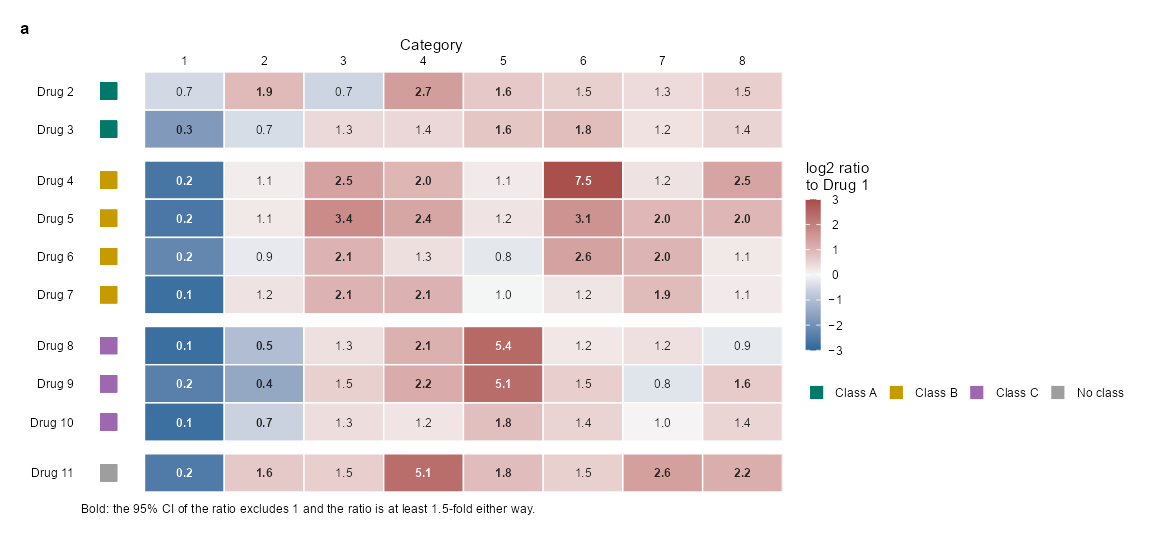
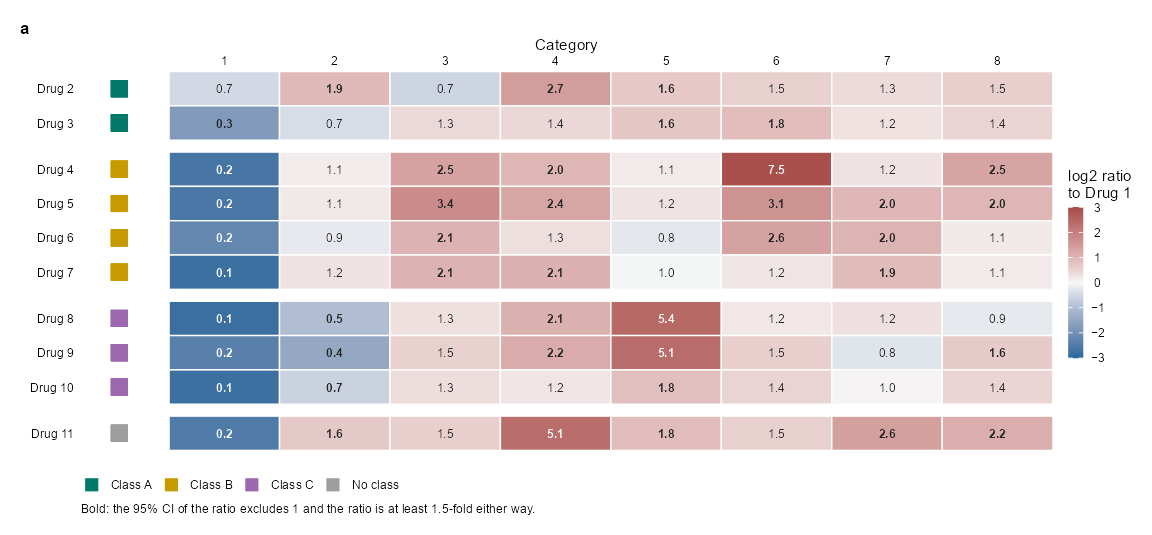
Put the legend of the classes below the heat map of Figure 4, and fix the colors of the routes
Each guide of the fourth figure of the reporting study has its own position: the color bar stays at the right and the legend of the classes goes below the heat map, at the left and in line with the caption. The routes of the second figure were a rose ramp of which one step was only 6.6 apart from the gold of a class for readers with tritanopia; journal_audit() reported it and the checks of the PDF files do not see it. The routes are now an oat, a sand and a khaki, at least 10 apart from each other and from the colors of the classes, and both articles pass the audit again. Version 1.8.6.

diff --git a/articles/reporting-study.md b/articles/reporting-study.md
@@ -71,9 +71,9 @@ Every figure takes its colors from the contract:
   than readers with color-vision deficiency can keep apart (see Section
   7), so they are the labels of the columns and are named in the text of
   the figures. Everything else is neutral: the three routes of Figure 2
-  are a blush, a dusty rose and a rosy taupe, and the ordered quantities
-  (the bins of time, the median days, the boxes of the flow chart) are
-  steps of one cool slate.
+  are an oat, a sand and a khaki, and the ordered quantities (the bins
+  of time, the median days, the boxes of the flow chart) are steps of
+  one cool slate.
 
 A group keeps its color across the figures, and no figure gives one
 color two meanings.
@@ -275,7 +275,7 @@ rows, so that a drug is read across the three.
 
 ``` r
 set.seed(21)
-route_colors <- setNames(hcl(20, c(10, 16, 30), c(93, 76, 62)), c("Route 1", "Route 2", "Route 3"))     # blush, dusty rose, rosy taupe
+route_colors <- setNames(hcl(60, c(8, 24, 26), c(93, 78, 64)), c("Route 1", "Route 2", "Route 3"))     # oat, sand, khaki
 bins <- c("\u226430 d", "31\u2013180 d", ">180 d")
 axis_drugs <- scale_y_discrete(limits = rev(drugs))
 
@@ -530,17 +530,17 @@ contrast <- ggplot(rel, aes(event, drug)) +
   scale_y_discrete(limits = rev) + scale_x_discrete(position = "top", labels = category_number, expand = expansion(add = c(1.3, 0))) +
   scale_fill_gradientn(colours = direction, limits = c(-3, 3), oob = scales::squish,
                        labels = function(x) minus(format(x)), name = "log2 ratio\nto Drug 1",
-                       guide = guide_colourbar(order = 1, theme = theme(legend.key.height = unit(24, "mm"), legend.key.width = unit(2.4, "mm")))) +
-  scale_colour_manual(values = class_fill, name = NULL, guide = guide_legend(order = 2, nrow = 1, override.aes = list(size = 2.6))) +
+                       guide = guide_colourbar(position = "right", theme = theme(legend.key.height = unit(24, "mm"), legend.key.width = unit(2.4, "mm")))) +
+  scale_colour_manual(values = class_fill, name = NULL, guide = guide_legend(position = "bottom", nrow = 1, override.aes = list(size = 2.6))) +
   labs(x = "Category", y = NULL, caption = "Bold: the 95% CI of the ratio excludes 1 and the ratio is at least 1.5-fold either way.") +
   figure_theme + strip_text +
   theme(strip.text.y = element_blank(), axis.line = element_blank(), axis.ticks = element_blank(), panel.spacing.y = unit(0.8, "mm"), axis.text.y = element_text(margin = margin(r = 3)),
-        legend.position = "right", plot.caption = element_text(hjust = 0, size = 5.6))
+        legend.justification.bottom = "left", legend.margin = margin(t = 2), plot.caption = element_text(hjust = 0, size = 5.6))
 
 tag_panels(contrast, 1)
 ```
 
-<img src="reporting-study_files/figure-gfm/figure_4-1.png" alt="A heat map of ten rows in four groups and eight columns, in blue and red with a number in each tile, some in bold. A small square of a class color sits at the left of each row. A color bar is at the right and a legend of four class colors below it." width="100%" />
+<img src="reporting-study_files/figure-gfm/figure_4-1.png" alt="A heat map of ten rows in four groups and eight columns, in blue and red with a number in each tile, some in bold. A small square of a class color sits at the left of each row. A color bar is at the right of the heat map and a legend of the four class colors is below it, at the left." width="100%" />
 
 _Figure 4. Contrast of each drug with a reference drug. The ratio of the
 ROR of each drug to that of Drug 1, for each category, on a log2 scale.
@@ -554,9 +554,11 @@ with s = sqrt(s1^2 + s2^2) from the two RORs. All data are simulated._
   a second.
 - The caption at the bottom says what bold means; it is part of the
   plot, so that it travels with the figure.
-- The color bar and the legend of the classes are two guides with an
-  `order`, which stacks them in the right margin; the length of the bar
-  is set with `theme()` inside `guide_colourbar()`.
+- Each guide has its own place: the color bar stays in the right margin,
+  and the legend of the classes goes below the heat map, with the
+  `position` argument of `guide_legend()`. `legend.justification.bottom`
+  puts it at the left, in line with the caption under it. The length of
+  the bar is set with `theme()` inside `guide_colourbar()`.
 
 ------------------------------------------------------------------------
 
@@ -653,10 +655,10 @@ figures <- list(
   "Figure 5" = list(A = forest)
 )
 journal_audit(figures, "nature", column = "double")
-#> Audit of 5 figure(s) for Nature: warn
+#> Audit of 5 figure(s) for Nature: pass
 #> figure    check         status  value            limit                    note
 #> Figure 1  journal       pass    all checks pass  Nature                   
-#> Figure 2  colors        warn    6.6              >= 10 (CIEDE2000)        up to 6 colors; closest pair with tritan vision; a panel with a gradient or many colors is not compared; palette = "okabe_ito" is made for this
+#> Figure 2  journal       pass    all checks pass  Nature                   
 #> Figure 3  journal       pass    all checks pass  Nature                   
 #> Figure 4  journal       pass    all checks pass  Nature                   
 #> Figure 5  journal       pass    all checks pass  Nature                   

diff --git a/NEWS.md b/NEWS.md
@@ -1,15 +1,24 @@
+# themeset 1.8.6
+
+* In the fourth figure of "A Figure Set for a Reporting Study" the legend of the
+  classes is below the heat map, at the left and in line with the caption, and the
+  color bar stays at the right: each guide has its own `position`.
+* The second figure of that article had two colors that readers with tritanopia
+  could hardly tell apart (a route and a class, 6.6 apart in CIEDE2000; the limit
+  of `journal_audit()` is 10), and the audit warned about it. The three routes are
+  now an oat, a sand and a khaki, at least 10 apart from each other and from the
+  colors of the classes, and both articles on figure sets pass the audit.
+
 # themeset 1.8.5
 
 * The two articles on figure sets have new colors, made with `hcl()` of base R from
   a hue, a chroma and a lightness: a deep teal, an orchid and a gold for groups, a
   steel blue and a brick red for the two directions of a heat map, a gold, an
   olive, a rose, a brown and a light steel for the categories that belong to no
-  group, a blush, a dusty rose and a rosy taupe for routes, and one cool slate for
-  ordered quantities. The group colors are at least 16 apart (CIEDE2000) with
-  normal vision and with each kind of color-vision deficiency, no two colors of a
-  panel are closer than 10, which is the limit of `journal_audit()`, and both
-  articles pass it. The flow chart has pale shadows, the heat maps of the second
-  article have white numbers on their deep tiles, and the plots of the first have a
+  group, and one cool slate for ordered quantities. The group colors are at least
+  16 apart (CIEDE2000) with normal vision and with each kind of color-vision
+  deficiency. The flow chart has pale shadows, the heat maps of the second article
+  have white numbers on their deep tiles, and the plots of the first have a
   background without an outline.
 
 # themeset 1.8.4
